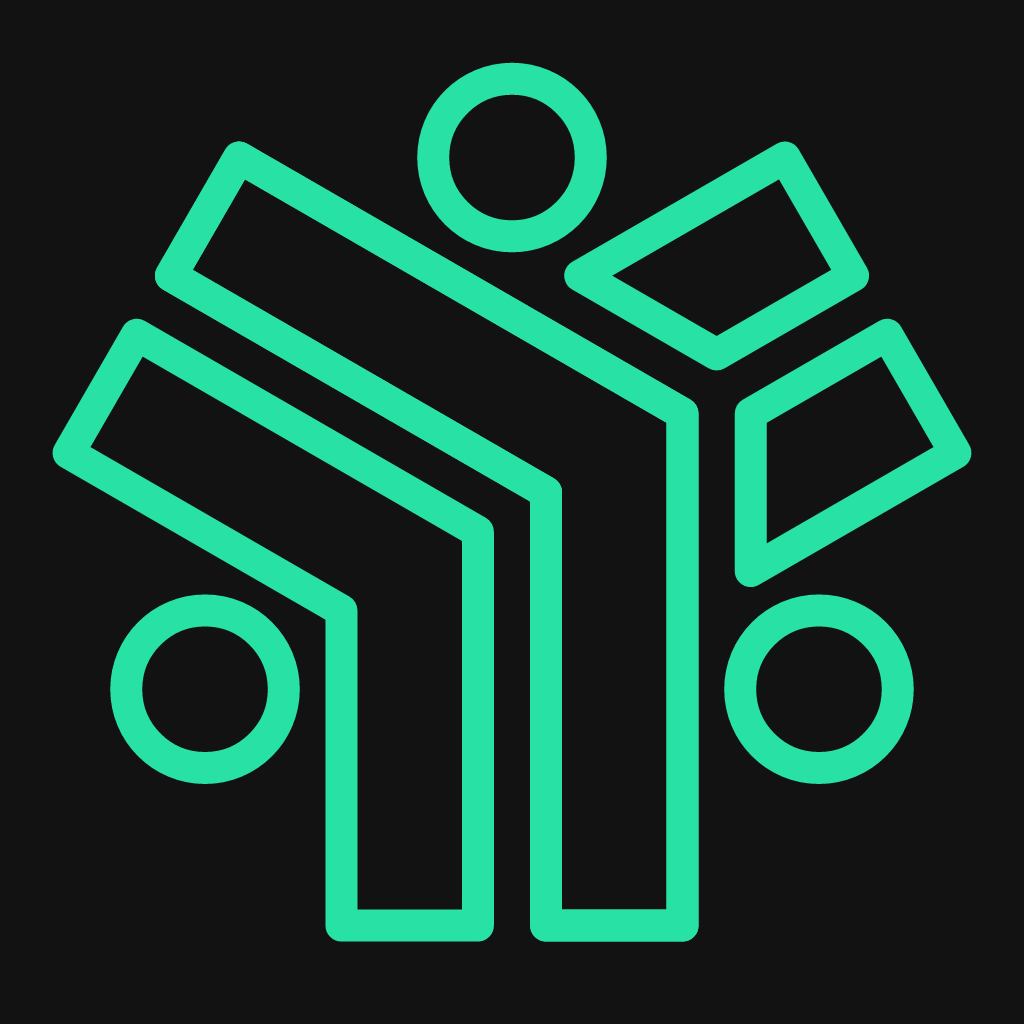
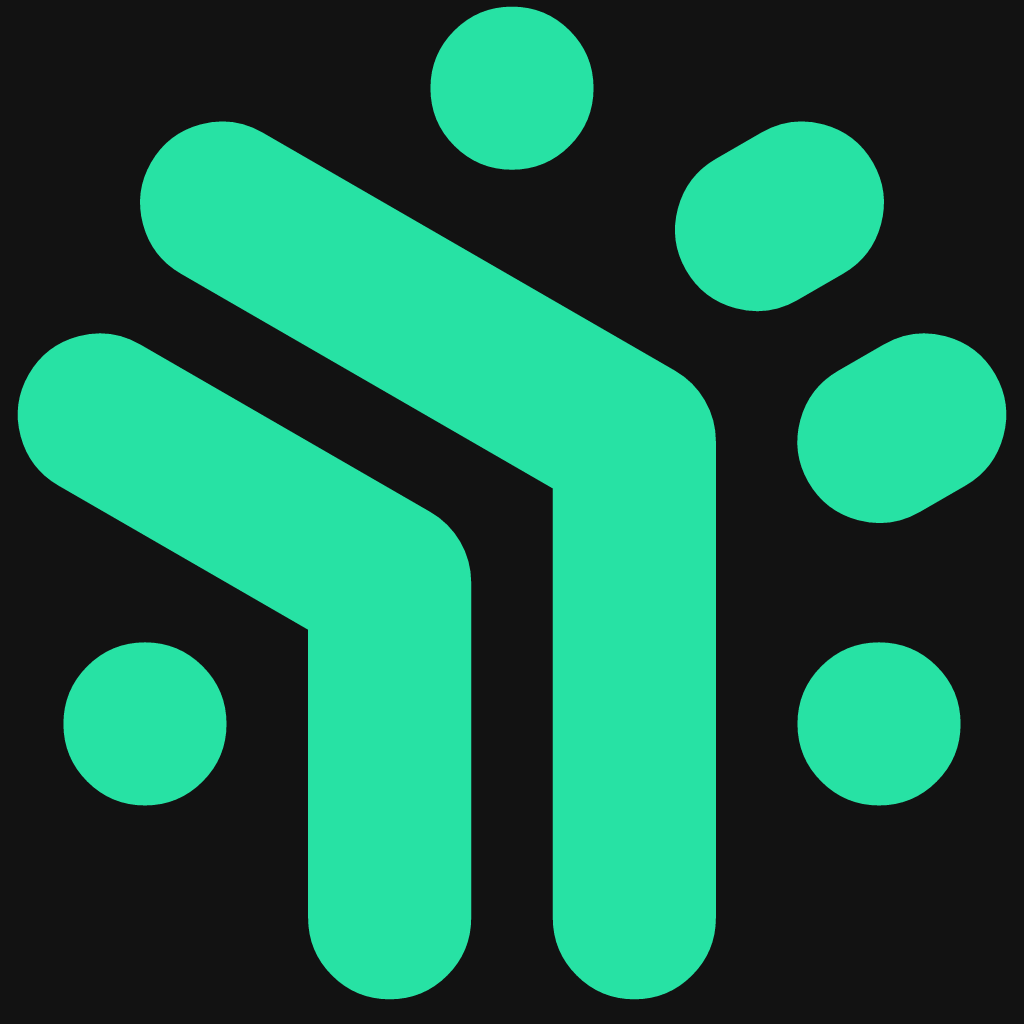
v2

diff --git a/src/build.rs b/src/build.rs
@@ -1,38 +1,49 @@
 use crate::icon::*;
-use std::time::{SystemTime, UNIX_EPOCH};
+use std::{
+    f64::consts::TAU,
+    time::{SystemTime, UNIX_EPOCH},
+};
 use svg::{
     Document,
     node::{Comment, element::*},
 };
 
-fn tricoord(a: f64, b: f64, c: f64) -> (f64, f64) {
-    let unit: f64 = 1.0 / 26.0;
-    (
-        ((b - c) * (3.0f64).sqrt() / 2.0f64) * unit,
-        (-a + (b + c) / 2.0f64) * unit,
-    )
+#[derive(Clone, Copy)]
+struct Coord {
+    x: f64,
+    y: f64,
 }
 
-macro_rules! tripolyline {
-    ( ( $a0:expr, $b0:expr, $c0:expr ), $( ( $a:expr, $b:expr, $c:expr ) ),* $(,)? ) => {{
-        let mut s = String::new();
-        let (x, y) = tricoord($a0 as f64, $b0 as f64, $c0 as f64);
-        s.push_str(&format!("M{},{} ",x,y));
-        $(
-            let (x, y) = tricoord($a as f64, $b as f64, $c as f64);
-            s.push_str(&format!("L{},{} ",x,y));
-        )*
-        s.push_str("Z");
-        s
-    }}
+impl Coord {
+    fn from_polar(theta: f64, radius: f64) -> Coord {
+        let x: f64 = theta.cos() * radius;
+        let y: f64 = theta.sin() * radius;
+        Coord { x, y }
+    }
+
+    fn from_tricoord(ic: f64, jc: f64) -> Coord {
+        let i = (ic - 4.5) * (3f64.sqrt() / 9.0);
+        let j = (jc - 4.5) * (3f64.sqrt() / 9.0);
+
+        Coord {
+            x: i,
+            y: (-i + 2.0 * j) * (3f64.sqrt() / 3.0),
+        }
+    }
 }
 
 impl Icon {
     pub fn new(info: &IconInfo) -> Self {
+        print!(
+            "({},{})\n",
+            Coord::from_tricoord(6.0, 6.0).x,
+            Coord::from_tricoord(6.0, 6.0).y
+        );
+        let r = 3f64.sqrt() / 9.0; // tmp
+
         let icon_size = 1024.0;
         let stroke_color = info.stroke_color.clone();
         let background_color = info.background_color.clone();
-        let unit: f64 = 1.0 / 26.0;
         let bg = {
             let bg_color = background_color;
             Rectangle::new()
@@ -42,75 +53,84 @@ impl Icon {
                 .set("height", icon_size)
                 .set("fill", bg_color)
         };
-        let body = vec![
-            tripolyline![
-                (13, 0, 8),
-                (11, 0, 10),
-                (0, 0, -1),
-                (-11, 0, -1),
-                (-13, 0, -5),
-                (0, 0, -5)
-            ],
-            tripolyline![
-                (13, 0, 8),
-                (11, 0, 10),
-                (0, 0, -1),
-                (-11, 0, -1),
-                (-13, 0, -5),
-                (0, 0, -5)
-            ],
-            tripolyline![
-                (10, 0, 11),
-                (8, 0, 13),
-                (0, 0, 5),
-                (-8, 0, 5),
-                (-10, 0, 1),
-                (0, 0, 1)
-            ],
-            tripolyline![(5, 0, -2), (5, 0, -8), (1, 0, -10), (1, 0, -6)],
-            tripolyline![(-5, 0, -7), (-5, 0, -13), (-1, 0, -11), (-1, 0, -7)],
-        ]
-        .iter()
-        .map(|x| Path::new().set("d", x.to_string()))
-        .fold(Group::new(), |g, x| g.add(x));
-        let orbs = [
-            tricoord(9.0, 0.0, 0.0),
-            tricoord(0.0, 9.0, 0.0),
-            tricoord(0.0, 0.0, 9.0),
-        ]
-        .map(|(x, y)| Circle::new().set("cx", x).set("cy", y).set("r", unit * 2.0))
-        .iter()
-        .fold(Group::new(), |g, x| g.add(x.clone()));
+
+        let fi = (3f64.sqrt() / 6f64).asin();
+
+        let orbs = (0..3)
+            .map(|x| 90f64 + (120f64 * (x as f64)))
+            .map(|x| TAU * x / 360f64)
+            .map(|x| Coord::from_polar(x, 1f64))
+            .map(|v| Polyline::new().set("points", format!("{},{} {},{}", v.x, v.y, v.x, v.y)))
+            .fold(Group::new(), |g, x| g.add(x));
+
+        let body = {
+            let body_p: Vec<Coord> = (0..3)
+                .map(|x| 30f64 + (120f64 * (x as f64)))
+                .map(|x| TAU * x / 360f64)
+                .flat_map(|x| [x - fi, x + fi])
+                .map(|x| Coord::from_polar(x, 1f64))
+                .collect();
+            let center_j = vec![
+                Coord::from_tricoord(3f64, 3f64),
+                Coord::from_tricoord(6f64, 6f64),
+            ];
+            let edge_j = vec![
+                Coord::from_tricoord(9f64, 7.5f64),
+                Coord::from_tricoord(7.5f64, 9f64),
+            ];
+            let ret = vec![
+                vec![body_p[0], edge_j[0]],
+                vec![body_p[1], edge_j[1]],
+                vec![body_p[2], center_j[1], body_p[5]],
+                vec![body_p[3], center_j[0], body_p[4]],
+            ]
+            .iter()
+            .map(|arr| {
+                Polyline::new().set(
+                    "points",
+                    arr.iter()
+                        .map(|v| format!("{},{}", v.x, v.y))
+                        .collect::<Vec<_>>()
+                        .join(" "),
+                )
+            })
+            .fold(Group::new(), |g, x| g.add(x));
+            ret
+        };
+
         let icon = Group::new()
             .set(
                 "transform",
                 format!(
-                    "translate({} {}) scale({})",
+                    "translate({} {}) scale({} -{})",
                     icon_size / 2.0,
                     icon_size / 2.0,
-                    icon_size
+                    icon_size / 2.0 / (1.0 + r + 1.0 / 64.0),
+                    icon_size / 2.0 / (1.0 + r + 1.0 / 64.0)
                 ),
             )
             .set("fill", "none")
             .set("stroke", stroke_color)
-            .set("stroke-width", icon_size / 32768.0)
+            .set("stroke-width", r * 2.0)
             .set("stroke-linecap", "round")
             .set("stroke-linejoin", "round")
-            .add(body)
-            .add(orbs);
+            .add(orbs)
+            .add(body);
 
-        let now = SystemTime::now()
-            .duration_since(UNIX_EPOCH)
-            .unwrap()
-            .as_secs();
+        let comment = {
+            let now = SystemTime::now()
+                .duration_since(UNIX_EPOCH)
+                .unwrap()
+                .as_secs();
 
-        let comment = Group::new()
-            .add(Comment::new("The Monad Club icon"))
-            .add(Comment::new("Author: Sua Tso <zhaoxiuya13@gmail.com>"))
-            .add(Comment::new(
-                "Repository: https://github.com/monadimi/icons",
-            ))
-            .add(Comment::new(format!("Generated at Unix timestamp {}", now)));
+            Group::new()
+                .add(Comment::new("The Monad Club icon"))
+                .add(Comment::new("Author: Sua Tso <zhaoxiuya13@gmail.com>"))
+                .add(Comment::new(
+                    "Repository: https://github.com/monadimi/icons",
+                ))
+                .add(Comment::new(format!("Generated at Unix timestamp {}", now)))
+        };
 
         let data = Document::new()
             .set("viewBox", (0.0, 0.0, icon_size, icon_size))

diff --git a/src/main.rs b/src/main.rs
@@ -4,7 +4,7 @@ mod icon;
 use icon::*;
 
 fn main() {
-    let icon_info = IconInfo::new(1024.0, "#27e2a4".to_string(), "#121212".to_string());
+    let icon_info = IconInfo::new(1024.0, "#121212".to_string(), "#27e2a4".to_string());
     let dir = format!("result/{}", icon_info);
     icon::Icon::new(&icon_info).save(dir);
 }
